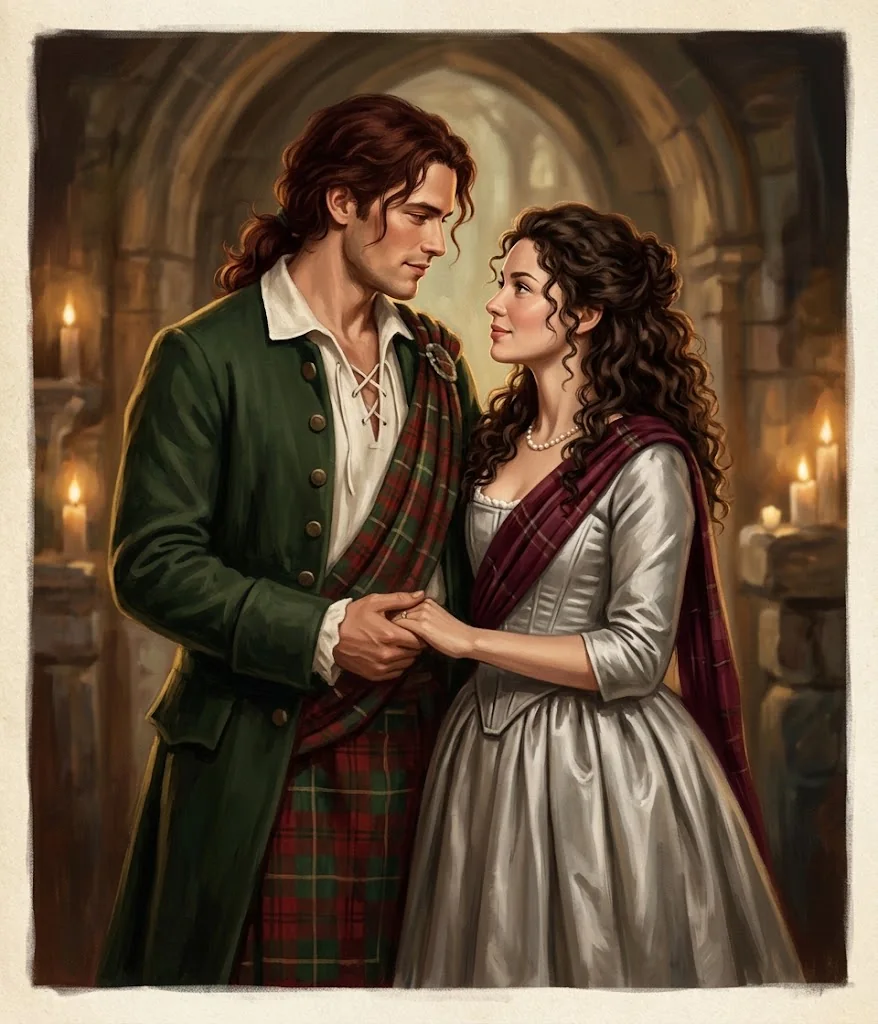
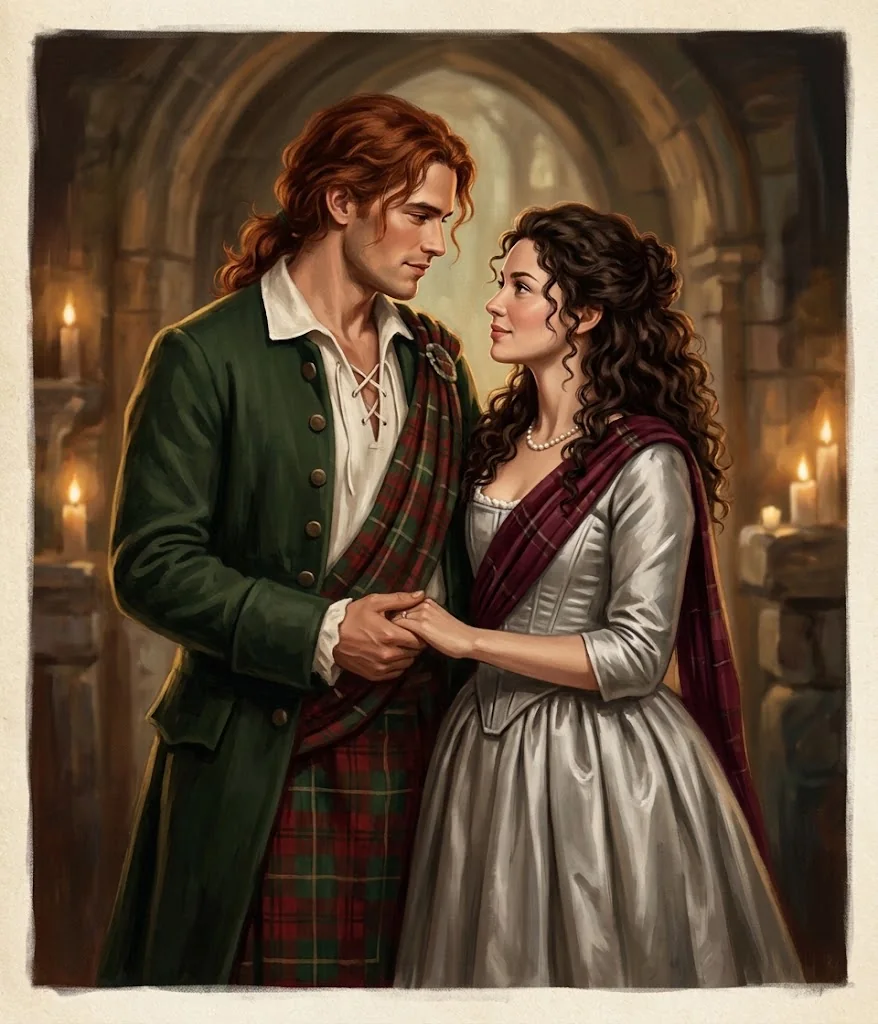
Illustrazione: versione con i capelli rossi di Jamie, come dicono i Preparativi
Claude-Session: https://claude.ai/code/session_016dyFYY4EgGLoiTLoDVRnNQ

Changed region(s): [[0.246, 0.0938, 0.5535, 0.2812], [0.492, 0.2188, 0.5228, 0.25]]

diff --git a/index.html b/index.html
@@ -49,7 +49,7 @@
        Il bordo color carta si fonde con la pagina (mix-blend-mode in styles.css). Il testo alternativo la descrive. -->
   <figure class="illustrazione">
     <img src="img/jamie-e-claire.webp" width="878" height="1024" decoding="async"
-         alt="Jamie e Claire si tengono per mano a lume di candela, sotto un arco di pietra: lui con i capelli ramati legati, giacca verde e plaid di tartan, lei con i ricci scuri e un abito d'argento">
+         alt="Jamie e Claire si tengono per mano a lume di candela, sotto un arco di pietra: lui con i capelli rossi legati, giacca verde e plaid di tartan, lei con i ricci scuri e un abito d'argento">
   </figure>
 
   <!-- I dieci punti (titolo e riga) stanno in src/contenuti.js: src/preparativi.js riempie l'elenco una
